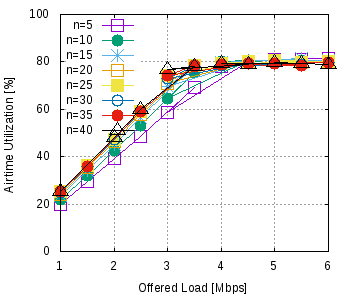
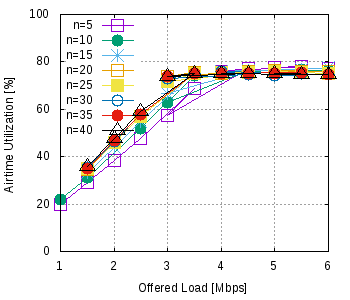
spatial-reuse: Update study1 results

Changed region(s): [[0.1429, 0.15, 0.9714, 0.69]]

diff --git a/src/wifi-he/doc/source/wifi-he-results.rst b/src/wifi-he/doc/source/wifi-he-results.rst
@@ -736,7 +736,7 @@ Study 1 Results
 ===============
 
 The figures in the section were generated using the ns-3-dev-11ax 
-repository as of commit changeset 8d5cd31b78fb862d7e9280ca3bc7468306ab6168.
+repository as of commit changeset 9bd25fef3784187303f5c92271bece656a1ddd66.
 
 System Throughput
 #################
